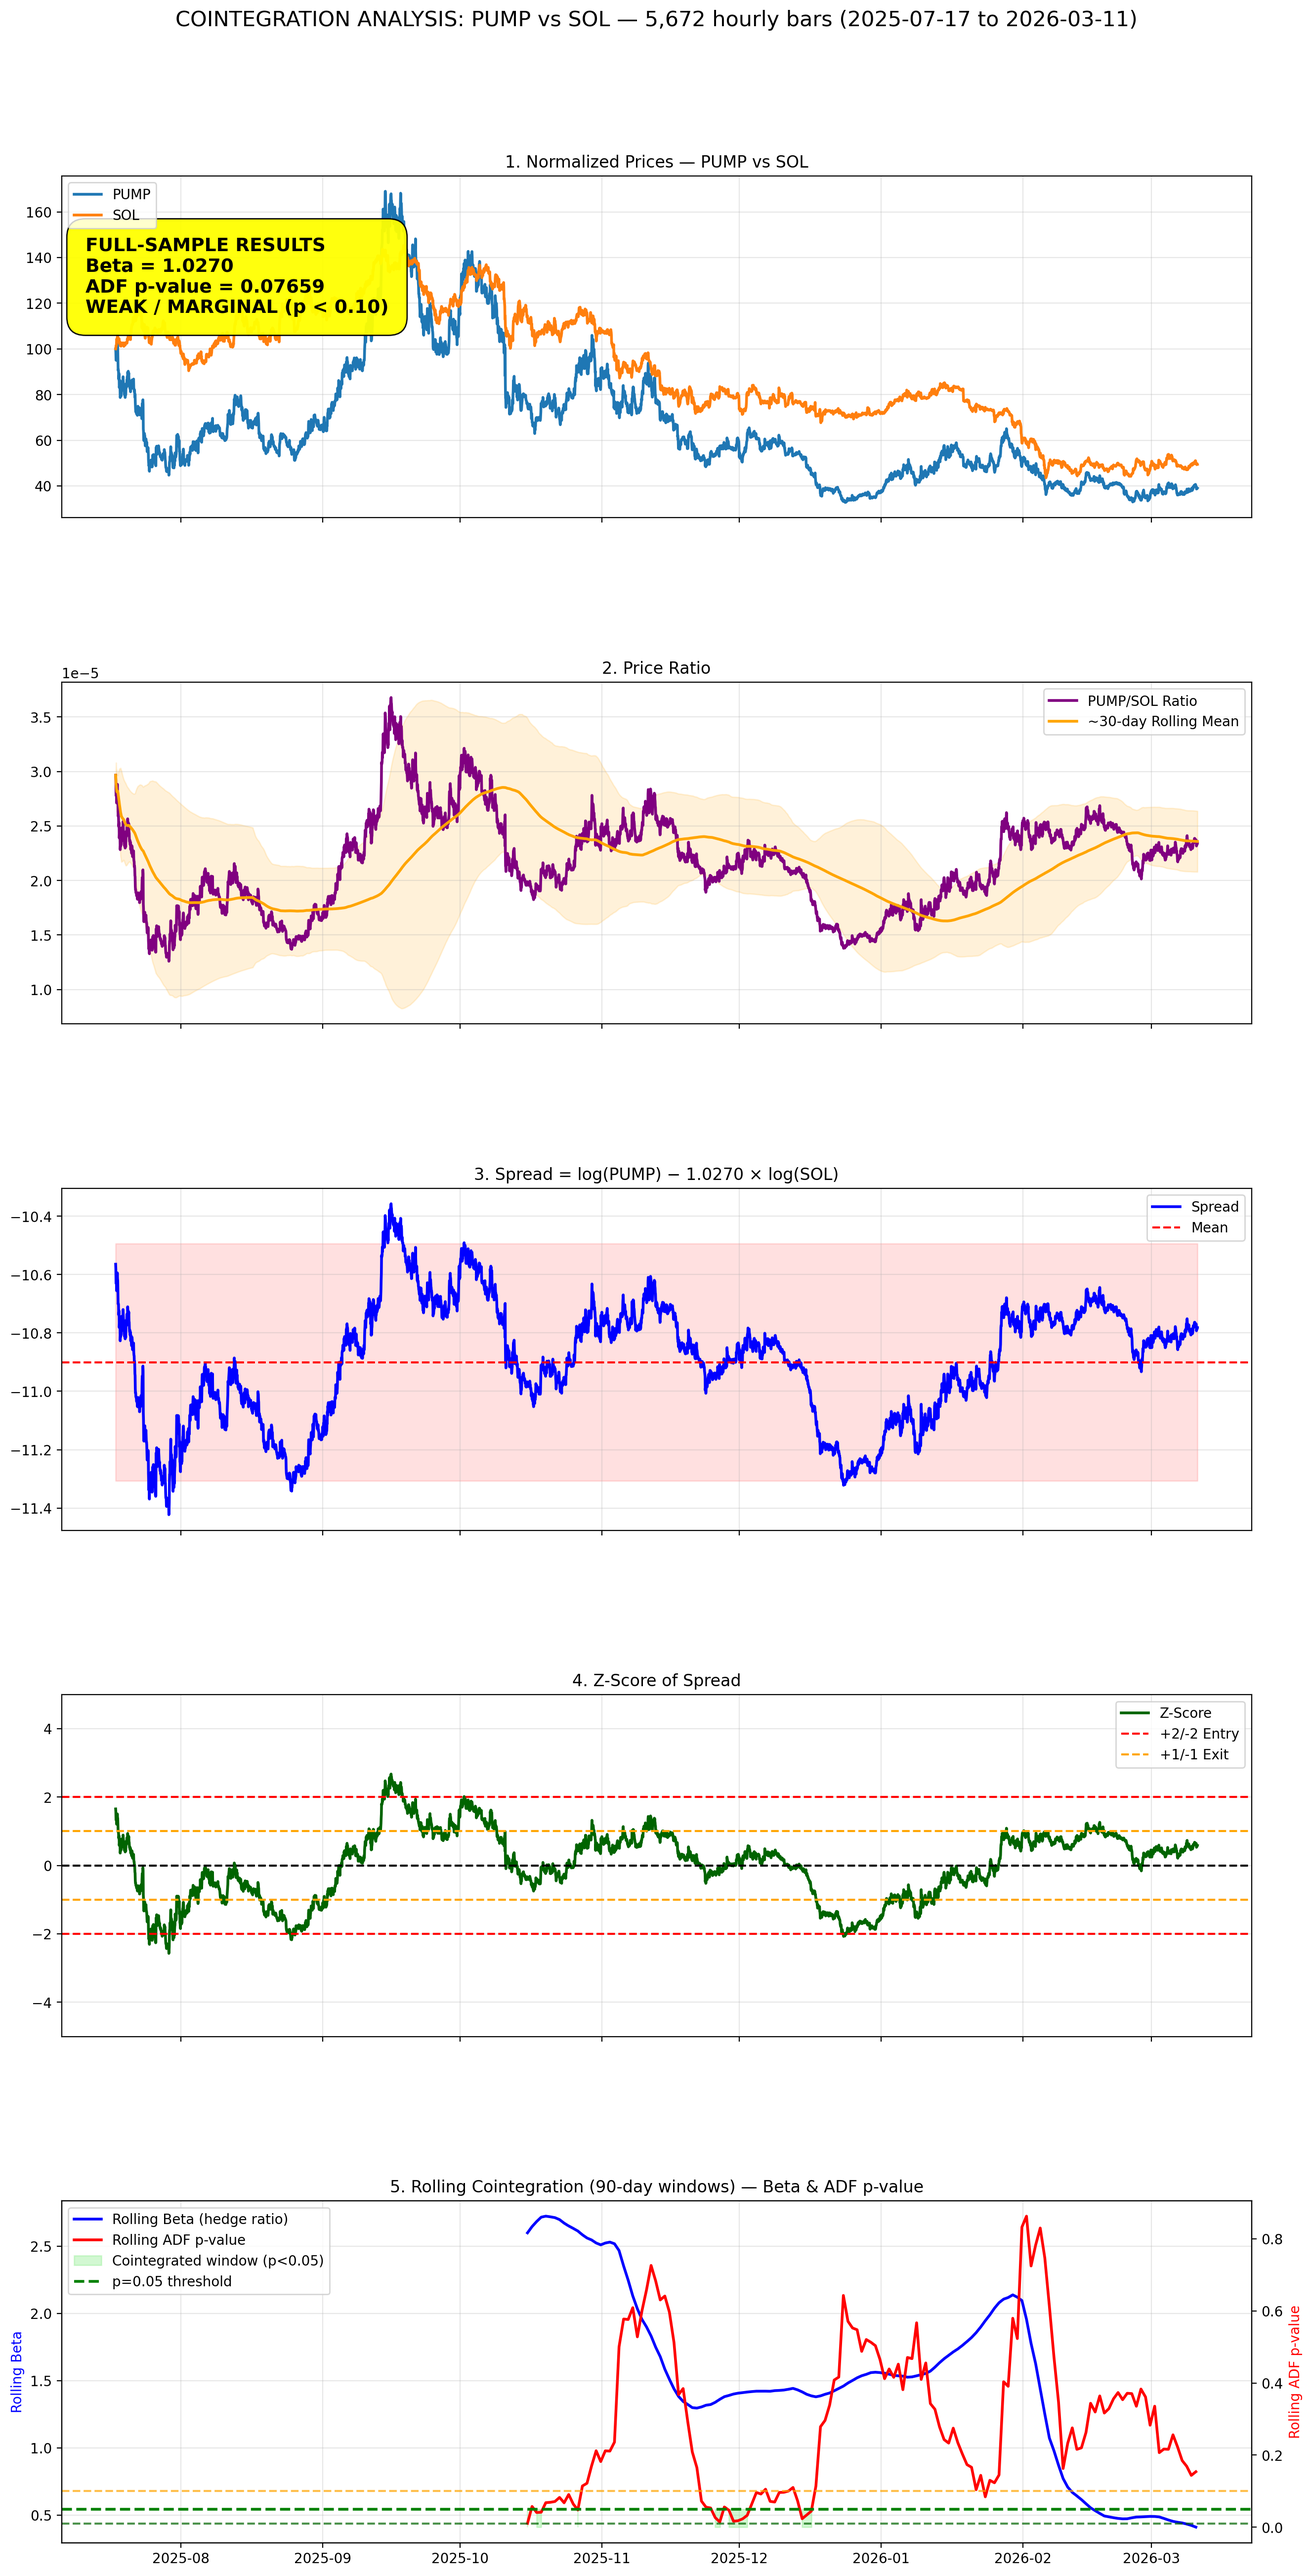
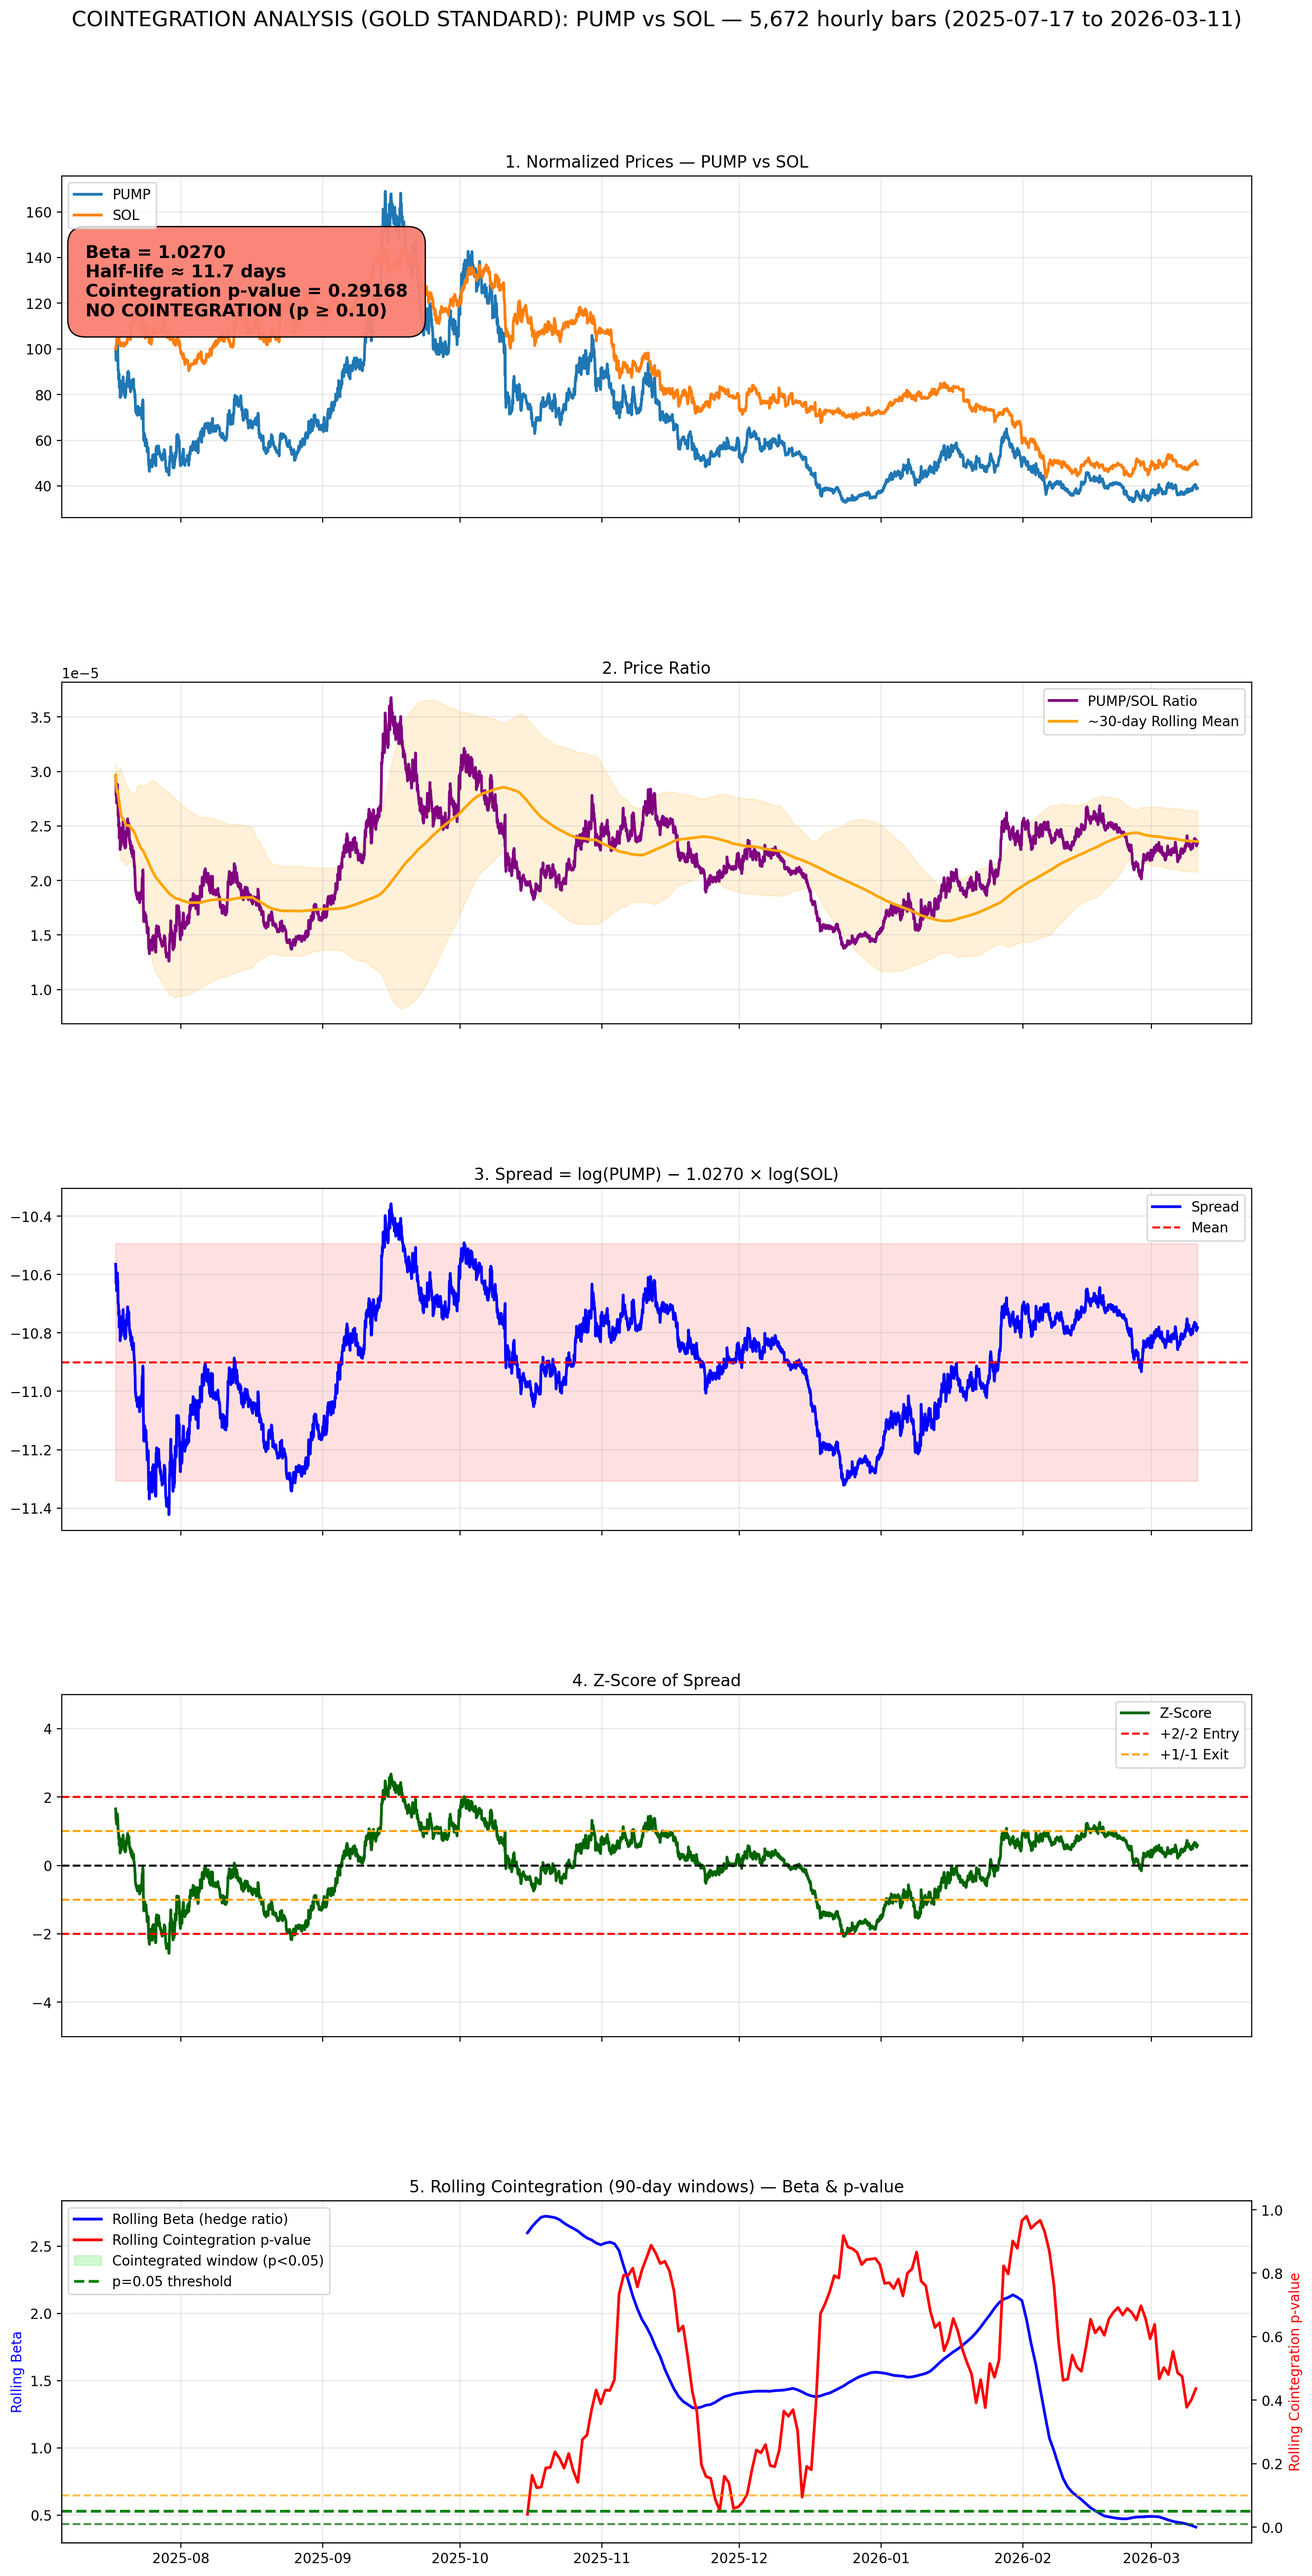
save

diff --git a/src/pcv2/draw_cointegration_chart.py b/src/pcv2/draw_cointegration_chart.py
@@ -10,8 +10,8 @@ class CointegrationChart:
     """
     Gold-standard cointegration analysis + Half-life (clean verdict box).
     - Full-sample + rolling use coint() on LOG prices with autolag='AIC'
-    - Half-life (OU process) in console + verdict box
-    - Verdict box now cleaner (no title line + slightly smaller font)
+    - Half-life now placed right after Beta in the verdict box (as requested)
+    - Console output unchanged for readability
     """
 
     DEFAULT_CSV = "top100_hourly_1year_combined.csv"
@@ -156,11 +156,11 @@ class CointegrationChart:
         axs[0].legend(loc='upper left')
         axs[0].grid(True, alpha=0.3)
 
-        # === CLEAN VERDICT BOX (no title line + slightly smaller font) ===
+        # === VERDICT BOX (Beta → Half-life → p-value as requested) ===
         axs[0].text(0.02, 0.80,
                     f"Beta = {self.beta:.4f}\n"
-                    f"Cointegration p-value = {self.p_value:.5f}\n"
                     f"Half-life ≈ {self.half_life_days:.1f} days\n"
+                    f"Cointegration p-value = {self.p_value:.5f}\n"
                     f"{self.verdict_chart}",
                     transform=axs[0].transAxes,
                     fontsize=12.8, ha='left', va='top', fontweight='bold',
@@ -235,7 +235,7 @@ class CointegrationChart:
         output_file = f"cointegration_{self.sym1}_{self.sym2}_with_rolling.png"
         plt.savefig(output_file, dpi=200, bbox_inches='tight')
         plt.close(fig)
-        print(f"\n✅ Saved: {output_file} (cleaner verdict box + half-life)")
+        print(f"\n✅ Saved: {output_file} (Half-life now after Beta in verdict box)")
 
 if __name__ == "__main__":
     if len(sys.argv) == 4:
